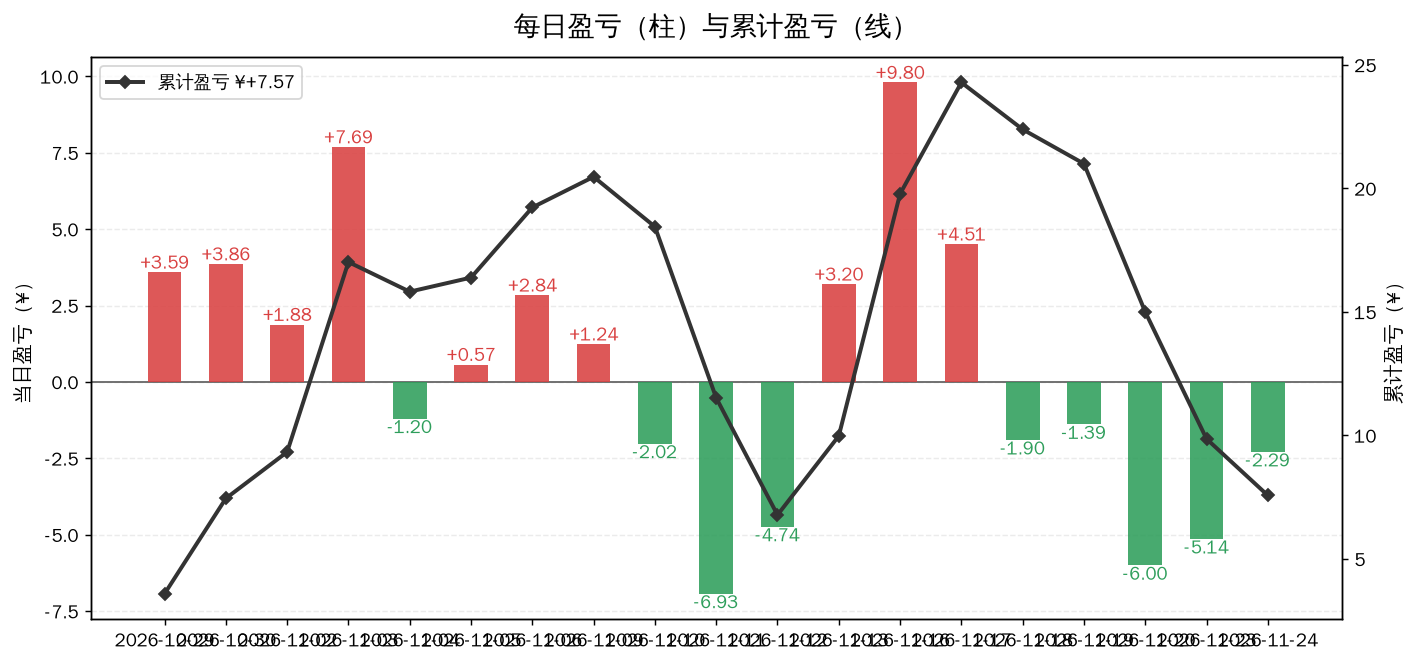
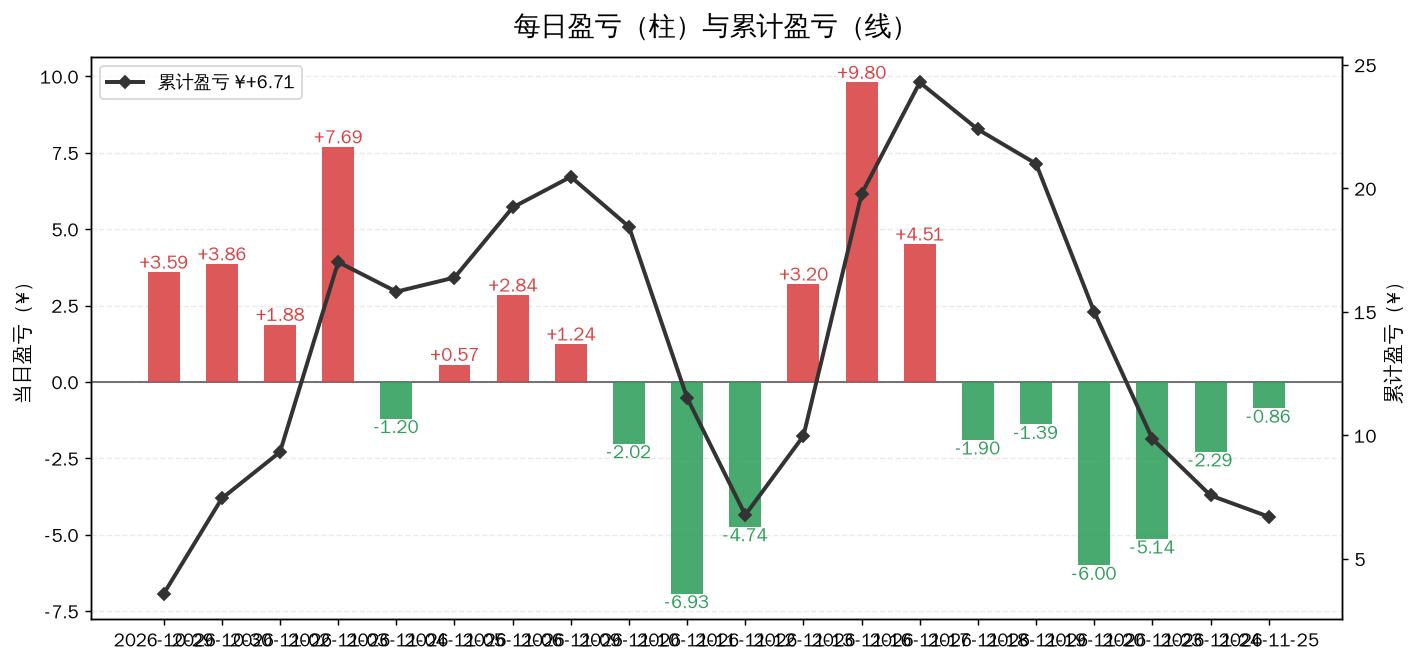
sim: dashboard update 2026-11-25 (equity ¥1006.71, +0.671%)

diff --git a/sim/DASHBOARD.md b/sim/DASHBOARD.md
@@ -1,8 +1,8 @@
 # 📊 模拟盘动态看板
 
-> **自动生成** · 最后更新 **2026-11-24 16:30** · 数据源：腾讯财经公开接口（实时行情）
+> **自动生成** · 最后更新 **2026-11-25 16:30** · 数据源：腾讯财经公开接口（实时行情）
 >
-> 本金 **¥1000.00** · 开仓 **2026-10-28** · 当前总权益 **¥1007.57** · 累计 **+0.757%**
+> 本金 **¥1000.00** · 开仓 **2026-10-28** · 当前总权益 **¥1006.71** · 累计 **+0.671%**
 >
 > ⚠ **纯模拟盘学习实验，不构成投资建议。**
 >
@@ -12,9 +12,9 @@
 
 ## 🎯 30 秒版本
 
-1. 从 2026-10-28 开仓到今天，账户从 ¥1000 变成 **¥1007.57**，赚了 **¥7.57（+0.757%）**。
-2. 今天单日 **-0.23%**，下跌 **¥2.29**。
-3. 同期大盘：**沪深300 -2.94%** 最强，**创业板指 -13.50%** 最弱 —— 本组合跑赢同期最强基准 +3.70 个百分点。
+1. 从 2026-10-28 开仓到今天，账户从 ¥1000 变成 **¥1006.71**，赚了 **¥6.71（+0.671%）**。
+2. 今天单日 **-0.09%**，下跌 **¥0.86**。
+3. 同期大盘：**沪深300 -4.55%** 最强，**创业板指 -17.12%** 最弱 —— 本组合跑赢同期最强基准 +5.22 个百分点。
 
 ## 📈 盈亏曲线
 
@@ -34,7 +34,7 @@
 
 ![盘中曲线](assets/intraday.png)
 
-**怎么读**：2026-11-24 当天每 30 分钟记录一次的账户总值。灰色虚线是当天开盘起点，曲线在虚线上方就是当天浮盈。A 股中午 11:30–13:00 休市，所以那段是平的。
+**怎么读**：2026-11-25 当天每 30 分钟记录一次的账户总值。灰色虚线是当天开盘起点，曲线在虚线上方就是当天浮盈。A 股中午 11:30–13:00 休市，所以那段是平的。
 
 ### 💵 每日盈亏明细图
 
@@ -50,21 +50,21 @@
 
 | 指标 | 数值 | 人话解读 |
 |---|---|---|
-| 总权益 | **¥1007.57** | 现在全部卖掉能拿回多少钱（持仓市值 + 现金） |
-| 持仓市值 | ¥733.61（72.8%） | 买成 ETF 的部分 |
-| 现金 | ¥273.96（27.2%） | 留着没买的钱，按货基利率计息 |
-| 累计盈亏 | **¥+7.57（+0.757%）** | 相对 ¥1000 本金 |
-| 今日盈亏 | **-0.23%** | 今天一天的变化 |
+| 总权益 | **¥1006.71** | 现在全部卖掉能拿回多少钱（持仓市值 + 现金） |
+| 持仓市值 | ¥732.74（72.8%） | 买成 ETF 的部分 |
+| 现金 | ¥273.97（27.2%） | 留着没买的钱，按货基利率计息 |
+| 累计盈亏 | **¥+6.71（+0.671%）** | 相对 ¥1000 本金 |
+| 今日盈亏 | **-0.09%** | 今天一天的变化 |
 | 历史最高 | ¥1024.29 | 账户到过的最高点 |
-| 当前回撤 | -1.632% | 离最高点还差多少（负数=没回到最高点） |
+| 当前回撤 | -1.716% | 离最高点还差多少（负数=没回到最高点） |
 
 ### 持仓明细
 
 | 标的 | 代码 | 持股 | 成本价 | 现价 | 今日 | 市值 | 浮动盈亏 | 人话解读 |
 |---|---|---|---|---|---|---|---|---|
-| 红利低波100ETF景顺 | 515100 | 450 | ¥1.431 | ¥1.466 | 🔻-0.34% | ¥659.70 | **+15.75（+2.45%）** | 赚钱了 |
-| 黄金ETF华安 | 518880 | 10 | ¥8.226 | ¥7.391 | 🔻-0.07% | ¥73.91 | **-8.35（-10.15%）** | 还亏着 |
-| 现金 | — | — | — | — | — | ¥273.96 | — | 货基计息，年化 0.84% |
+| 红利低波100ETF景顺 | 515100 | 450 | ¥1.431 | ¥1.469 | 🔺+0.20% | ¥661.05 | **+17.10（+2.66%）** | 赚钱了 |
+| 黄金ETF华安 | 518880 | 10 | ¥8.226 | ¥7.169 | 🔻-3.00% | ¥71.69 | **-10.57（-12.85%）** | 还亏着 |
+| 现金 | — | — | — | — | — | ¥273.97 | — | 货基计息，年化 0.84% |
 
 ---
 
@@ -110,33 +110,41 @@
 
 | 资产 | 目标占比 | 实际占比 | 偏离 | 判定 |
 |---|---|---|---|---|
-| 红利低波100ETF景顺 | 65% | 65.5% | +0.5pp | 🟢 正常，不动 |
-| 黄金ETF华安 | 8% | 7.3% | -0.7pp | 🟢 正常，不动 |
+| 红利低波100ETF景顺 | 65% | 65.7% | +0.7pp | 🟢 正常，不动 |
+| 黄金ETF华安 | 8% | 7.1% | -0.9pp | 🟢 正常，不动 |
 | 现金（货基） | 27% | 27.2% | +0.2pp | 🟢 正常，不动 |
 
 #### ② 补仓条件检查（规则：跌到成本价 -8% 触发补仓，每只最多 2 次）
 
 | 标的 | 成本价 | 现价 | 距成本 | 已补仓 | 判定 |
 |---|---|---|---|---|---|
-| 红利低波100ETF景顺 | ¥1.431 | ¥1.466 | +2.45% | 0/2 | 🟢 未触发（还差 10.4pp 才到 -8%） |
-| 黄金ETF华安 | ¥8.226 | ¥7.391 | -10.15% | 0/2 | 🔴 **触发补仓** |
+| 红利低波100ETF景顺 | ¥1.431 | ¥1.469 | +2.66% | 0/2 | 🟢 未触发（还差 10.7pp 才到 -8%） |
+| 黄金ETF华安 | ¥8.226 | ¥7.169 | -12.85% | 0/2 | 🔴 **触发补仓** |
 
 #### ③ 回撤检查（规则：账户从最高点回撤 -5% 只记录、不割肉）
 
 | 指标 | 数值 |
 |---|---|
 | 历史最高净值 | ¥1024.29（2026-11-17） |
-| 当前净值 | ¥1007.57（2026-11-24） |
-| 回撤幅度 | **-1.632%** |
+| 当前净值 | ¥1006.71（2026-11-25） |
+| 回撤幅度 | **-1.716%** |
 | 触发阈值 | -5% |
 
-> 🟢 **未触发**：距阈值还有 3.37pp 缓冲。即使触发，纪律也是记录而非卖出。
+> 🟢 **未触发**：距阈值还有 3.28pp 缓冲。即使触发，纪律也是记录而非卖出。
 
 #### ④ 今日结论
 
 > ⏸ **账户已冻结，不执行任何交易。** 以上检查仅作记录用途——共扫描 6 项纪律，触发 **1** 项。冻结状态下即使触发也不动手（用户决定不投 A 股）。
 
 ### 四、每日决策记录（当时怎么判断的）
+
+#### 📅 2026-11-25 · 权益 ¥1006.71（累计 +0.671%）
+
+- 总权益 **¥1006.71**（当日 -0.09% / 累计 +0.671%）
+- 红利低波100ETF景顺 1.469 (+0.20%)
+- 黄金ETF华安 7.169 (-3.00%)
+- 现金 ¥273.97
+- 📝 自动收盘估值（看板 cron）
 
 #### 📅 2026-11-24 · 权益 ¥1007.57（累计 +0.757%）
 
@@ -305,9 +313,9 @@
 
 | 指数 | 同期涨跌 | 本组合超额 | 人话解读 |
 |---|---|---|---|
-| 沪深300 | -2.94% | **+3.70pp** | 跑赢 3.70 个百分点 |
-| 创业板指 | -13.50% | **+14.26pp** | 跑赢 14.26 个百分点 |
-| 上证指数 | -3.62% | **+4.37pp** | 跑赢 4.37 个百分点 |
+| 沪深300 | -4.55% | **+5.22pp** | 跑赢 5.22 个百分点 |
+| 创业板指 | -17.12% | **+17.80pp** | 跑赢 17.80 个百分点 |
+| 上证指数 | -5.57% | **+6.24pp** | 跑赢 6.24 个百分点 |
 
 > 注：`pp` = percentage point（百分点），是两个百分比相减的单位。「+2.5pp」意思是「比它高 2.5 个百分点」，不是「高 2.5%」。
 
@@ -335,6 +343,7 @@
 | 2026-11-20 | ¥1015.00 | ¥741.07 | ¥273.93 | +1.500% |
 | 2026-11-23 | ¥1009.86 | ¥735.91 | ¥273.95 | +0.986% |
 | 2026-11-24 | ¥1007.57 | ¥733.61 | ¥273.96 | +0.757% |
+| 2026-11-25 | ¥1006.71 | ¥732.74 | ¥273.97 | +0.671% |
 
 ---
 
@@ -347,4 +356,4 @@
 
 ---
 
-_本页由 `dashboard.py` 自动生成于 2026-11-24 16:30:25，每个交易日收盘后刷新。_
+_本页由 `dashboard.py` 自动生成于 2026-11-25 16:30:33，每个交易日收盘后刷新。_
